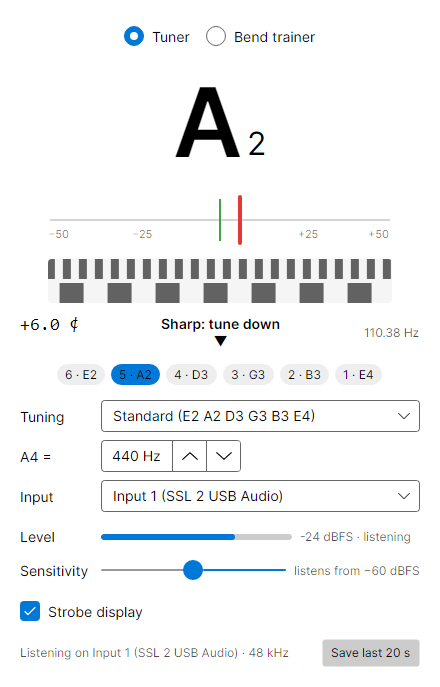
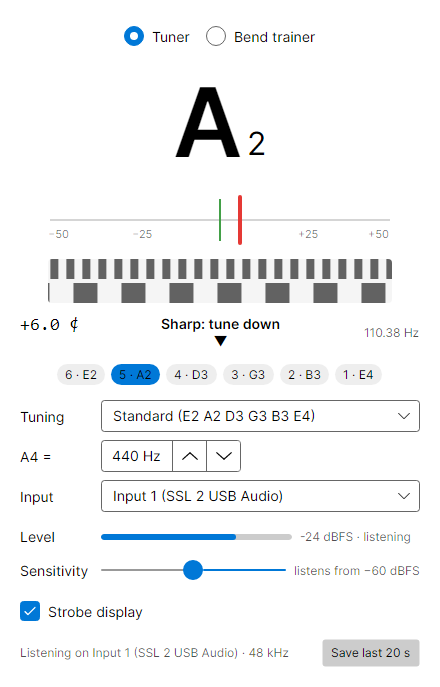
Upgrade to Avalonia 12.1.4
- Avalonia, Desktop, Themes.Fluent and Fonts.Inter 11.3.22 -> 12.1.4.
- MIDI player drag-and-drop uses the new DataTransfer API
  (DataFormat.File, TryGetFiles) instead of the removed DragEventArgs.Data.
- Watermark -> PlaceholderText on text boxes, number boxes and
  auto-complete boxes (obsolete in 12).
- scripts/readme-screenshots.cs: Avalonia 12 packages plus HarfBuzz text
  shaping (needed when calling UseSkia directly), PNG encoder options;
  screenshots re-rendered (emoji now draw in colour).
- README names Avalonia 12.

Changed region(s): [[0.0886, 0.3668, 0.8864, 0.4585]]

diff --git a/scripts/readme-screenshots.cs b/scripts/readme-screenshots.cs
@@ -1,9 +1,10 @@
 #:property PublishAot=false
 #:property ManagePackageVersionsCentrally=false
-#:package Avalonia.Headless@11.3.22
-#:package Avalonia.Skia@11.3.22
-#:package Avalonia.Themes.Fluent@11.3.22
-#:package Avalonia.Fonts.Inter@11.3.22
+#:package Avalonia.Headless@12.1.4
+#:package Avalonia.Skia@12.1.4
+#:package Avalonia.Themes.Fluent@12.1.4
+#:package Avalonia.Fonts.Inter@12.1.4
+#:package Avalonia.HarfBuzz@12.1.4
 #:project ../src/GuitarPractice.App/GuitarPractice.App.csproj
 using System.Reflection;
 using Avalonia;
@@ -30,7 +31,7 @@ using Microsoft.EntityFrameworkCore;
 // Renders the README screenshots (docs/screenshots) from demo data, headless. In-memory DB and temp folders only: never
 // your practice.db, recordings or midi folders. Never the real App class (its startup opens the real DB).
 // Run from the repo root: dotnet run --file scripts/readme-screenshots.cs [-- <outDir>]
-AppBuilder.Configure<ShotApp>().UseSkia().WithInterFont().UseHeadless(new AvaloniaHeadlessPlatformOptions { UseHeadlessDrawing = false }).SetupWithoutStarting();
+AppBuilder.Configure<ShotApp>().UseSkia().UseHarfBuzz().WithInterFont().UseHeadless(new AvaloniaHeadlessPlatformOptions { UseHeadlessDrawing = false }).SetupWithoutStarting();
 var outDir = args.Length > 0 ? args[0] : Path.Combine("docs", "screenshots");
 Directory.CreateDirectory(outDir);
 void Pump() => Avalonia.Threading.Dispatcher.UIThread.RunJobs();
@@ -214,7 +215,7 @@ for (var i = 0; i < windows.Count; i++)
     var b = new RenderTargetBitmap(new PixelSize((int)w.Bounds.Width, (int)w.Bounds.Height));
     b.Render(w);
     var file = Path.Combine(outDir, name + ".png");
-    b.Save(file);
+    b.Save(file, new PngBitmapEncoderOptions { CompressionLevel = System.IO.Compression.CompressionLevel.SmallestSize });
     Console.WriteLine($"{Path.GetFileName(file)} ({(i % 2 == 0 ? "dark" : "light")}) {w.Bounds.Width}×{w.Bounds.Height} {new FileInfo(file).Length / 1024} KB");
 }
 foreach (var (w, _) in windows) w.Close();

diff --git a/src/GuitarPractice.App/Views/MidiPlayerWindow.axaml.cs b/src/GuitarPractice.App/Views/MidiPlayerWindow.axaml.cs
@@ -54,14 +54,12 @@ public partial class MidiPlayerWindow : Window
         vm.ImportFiles(files.Select(f => f.TryGetLocalPath()).OfType<string>());
     }
 
-#pragma warning disable CS0618 // DataFormats.Files / GetFiles: the Avalonia 11 drag-and-drop API.
     private static IEnumerable<string> DroppedMidiFiles(DragEventArgs e) =>
-        (e.Data.GetFiles() ?? []).Select(f => f.TryGetLocalPath()).OfType<string>()
+        (e.DataTransfer.TryGetFiles() ?? []).Select(f => f.TryGetLocalPath()).OfType<string>()
             .Where(p => p.EndsWith(".mid", StringComparison.OrdinalIgnoreCase) || p.EndsWith(".midi", StringComparison.OrdinalIgnoreCase));
 
     private void OnDragOver(object? sender, DragEventArgs e) =>
-        e.DragEffects = e.Data.Contains(DataFormats.Files) ? DragDropEffects.Copy : DragDropEffects.None;
-#pragma warning restore CS0618
+        e.DragEffects = e.DataTransfer.Contains(DataFormat.File) ? DragDropEffects.Copy : DragDropEffects.None;
 
     private void OnDrop(object? sender, DragEventArgs e)
     {

diff --git a/README.md b/README.md
@@ -7,7 +7,7 @@ times each session, with the tools you'd otherwise switch apps for in one place:
 bend trainer, recorder with looping, ear trainer, progress tracking, and a MIDI player for playing along with backing
 tracks: import songs exported from Guitar Pro (or any MIDI file), slow them down without changing pitch, mute your
 part, loop the bars you're working on, and link a song to a practice item so it's one click away. Cross-platform
-desktop app (Windows / macOS / Linux); C# / .NET 10, Avalonia 11, EF Core + SQLite.
+desktop app (Windows / macOS / Linux); C# / .NET 10, Avalonia 12, EF Core + SQLite.
 
 The icon is a sprout growing up a rosewood fretboard (simplified to a "T" made of a nut and a string at 16–32 px).
 Sources: `src/GuitarPractice.App/Assets/Icon/trellis.svg` and `trellis-small.svg`; rebuild the `.ico` with
